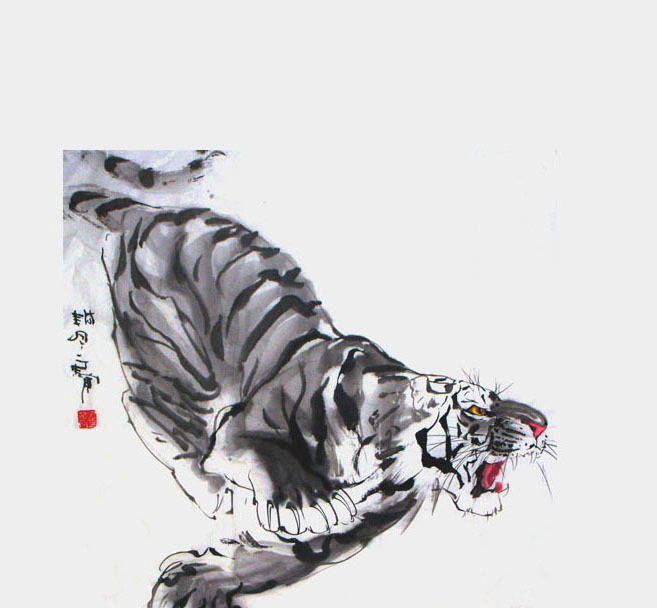
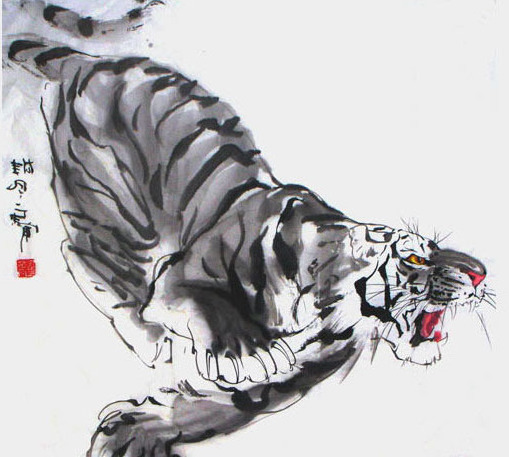
team image e spaziature

diff --git a/src/routes/(protected)/profile/index.tsx b/src/routes/(protected)/profile/index.tsx
@@ -13,13 +13,7 @@ export default component$(() => {
   return (
     <MainLayout title="Profilo">
       <div class={styles.container}>
-        {auth.value?.is_admin === true && (
-          <div>
-            <Button isLink={true} href={config.urls.admin}>
-              Amministra
-            </Button>
-          </div>
-        )}
+        
         {/*<div>
           <strong>{auth.value?.user?.email}</strong>
         </div>*/}
@@ -50,6 +44,14 @@ export default component$(() => {
               Tutti
             </Link>
           </div>*/}
+
+{auth.value?.is_admin === true && (
+          <div class={styles.admin}>
+            <Button isLink={true} href={config.urls.admin}>
+              Amministra
+            </Button>
+          </div>
+        )}
         </div>
         <div class={styles.logout}>
           <Logout />

diff --git a/src/shared/components/ui/bottom-navigation/bottom-navigation.module.scss b/src/shared/components/ui/bottom-navigation/bottom-navigation.module.scss
@@ -15,7 +15,7 @@
   justify-content: space-evenly;
   width: 100%;
   font-size: 1.5em;
-  padding: var(--spacing-default);
+  padding: var(--spacing-small);
   border-top: 1px solid var(--bottom-navigation-border-color-light);
   border-right: 1px solid var(--bottom-navigation-border-color-dark);
   border-bottom: 1px solid var(--bottom-navigation-border-color-dark);
@@ -40,11 +40,12 @@
 
   &:hover, &:active, &:focus {
     color: var(--bottom-navigation-text-color);
+    background: var(--bottom-navigation-bg-color);
   }
 
   i {
     display: inline-block;
-    font-size: 0.85em;
+    font-size: 1.2em;
   }
 
   &:global(.active) {

diff --git a/src/routes/(protected)/teams/index.module.scss b/src/routes/(protected)/teams/index.module.scss
@@ -22,6 +22,7 @@
 
     .teamCover {
       background-image: url('/public/static/backgrounds/cover_dragon_big.png');
+      background-position: left;
     }
 
     .teamInfoContainer {
@@ -43,7 +44,9 @@
     }
 
     .teamCover {
-      background-image: url('/public/static/backgrounds/cover_tiger_big.png');
+      background-image: url('/public/static/backgrounds/tiger2.jpg');
+      background-size: 200%;
+      background-position: bottom right;
     }
 
     .teamInfoContainer {

diff --git a/src/routes/(protected)/info/index.tsx b/src/routes/(protected)/info/index.tsx
@@ -96,8 +96,6 @@ export default component$(() => {
         </p>
 
         <h2 id="torneo">Il torneo</h2>
-
-        <h3>Il trofeo</h3>
         <p>
           Questo torneo comprende tre diverse discipline: calcio, pallavolo e
           ping pong. Ognuna di queste discipline è parte integrante del torneo e

diff --git a/src/shared/components/ui/back-top-button/back-top-button.tsx b/src/shared/components/ui/back-top-button/back-top-button.tsx
@@ -16,8 +16,7 @@ export default component$(({ ref }: Props) => {
   });
   return (
     <Button onClick$={scrollToTop} variant="selected" class={styles.button}>
-      Top
-      <i class="fa fa-chevron-up"></i>
+      Top <i class="fa fa-chevron-up"></i>
     </Button>
   );
 });

diff --git a/src/shared/components/ui/back-top-button/back-top-button.module.scss b/src/shared/components/ui/back-top-button/back-top-button.module.scss
@@ -1,5 +1,9 @@
 .button {
   position: sticky;
   bottom: 0;
-  left: 75dvw; // TODO: improve this!
+  left: 72dvw; // TODO: improve this!
+
+  i {
+    margin-left: var(--spacing-small); // TODO: move this in the button component that uses icons!
+  }
 }

diff --git a/src/routes/(protected)/info/index.module.scss b/src/routes/(protected)/info/index.module.scss
@@ -7,7 +7,9 @@
 
 .localNavigation {
   display: flex;
-  flex-wrap: wrap;
+  flex-wrap: wrap;;
+  align-items: center;
+  justify-content: center;
   gap: var(--spacing-small);
   //position: sticky;
   //top: 0;

diff --git a/src/routes/(protected)/profile/index.module.scss b/src/routes/(protected)/profile/index.module.scss
@@ -17,7 +17,9 @@
 .chatTitle {
   margin: 0;
 }
-
+.admin {
+  margin-top: var(--spacing-medium)
+}
 .logout {
-  margin-top: var(--spacing-big)
+  margin-top: var(--spacing-medium)
 }

diff --git a/src/scss/_base.scss b/src/scss/_base.scss
@@ -68,6 +68,7 @@ p {
 }
 
 code {
+  font-family: var(--font-family-mono);
   font-size: clamp(1em, 1.3vw, 1.6em);
   line-height: 1.5;
 }
